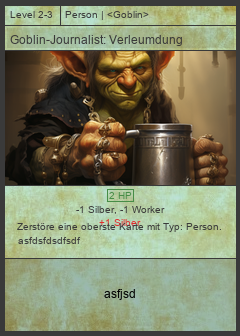
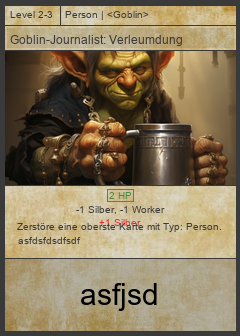
.

diff --git a/creature_fights/card_creation_scripts/card_creation.py b/creature_fights/card_creation_scripts/card_creation.py
@@ -1,0 +1,133 @@
+import json
+from PIL import Image, ImageDraw, ImageFont
+import os
+from image_utils import ImageText
+
+
+class Card:
+    def __init__(self, idx, data):
+        self.data = data
+
+        self.file_name = f"../cards/{idx}.png"
+
+        self.font_name = 'arial.ttf'
+        self.font_main_name = 'arial.ttf'
+        self.font_main = ImageFont.truetype(self.font_main_name, 12)
+        self.font = ImageFont.truetype(self.font_name, 10)
+        self.neutralColorA = (66, 66, 66)
+
+        #########################
+
+        image = Image.open(r"../../assets/c.jpg")
+
+        image = self.change_color(image)
+
+        self.draw_lines(image)
+
+        image = self.draw_main_stats(image)
+
+        image = self.add_image(image)
+
+        text_layer = self.get_text_layer()
+        image = Image.alpha_composite(image, text_layer)
+
+        #########################
+
+        image.save(self.file_name)
+        #os.system(self.file_name) # show file
+
+    def get_text_layer(self):
+        img2 = ImageText((240, 336), mode="RGBA", background=(0, 0, 0, 30), maximum_font_size=16)
+        img2.image.convert("PA")
+        img2.fill_text_box((120, 20), self.data["name"], box_width=180, box_height=50, font_filename=self.font_name)
+        overlay = img2.image
+        overlay.convert("RGBA")
+        return overlay
+
+    def add_text(self, image, text, centerX, centerY, width, height):
+        img2 = ImageText((240, 336), mode="RGBA", background=(0, 0, 0, 30), maximum_font_size=16)
+        img2.image.convert("PA")
+        img2.fill_text_box((centerX, centerY), text, box_width=width, box_height=height, font_filename=self.font_name)
+        overlay = img2.image
+        overlay.convert("RGBA")
+        image = Image.alpha_composite(image, overlay)
+        return image
+
+    def add_image(self, image):
+        im2 = Image.open('../../assets/goblin.png')
+        # im2.resize((4,4))
+        im2.thumbnail((232, 232), Image.Resampling.LANCZOS)
+        im2 = im2.crop((0, 49, im2.width - 1, im2.height - 49))
+
+        image = image.copy()
+        image.paste(im2, (5, 51))
+        return image
+
+    def draw_lines(self, image):
+        draw = ImageDraw.Draw(image, mode="RGBA")
+        # draw text
+        draw.text((10, 20), f"{self.data['cost_silver']} S", font=self.font, fill=self.neutralColorA)
+        if self.data['victory_points'] > 0:
+            draw.text((image.width-30, 20), f"{self.data['victory_points']} VP", font=self.font, fill=self.neutralColorA)
+
+        draw.line(xy=[(0, 0), (image.width, 0), (image.width, image.height), (0, image.height), (0, 0)],
+                  fill=self.neutralColorA, width=10)
+        #draw.line(xy=[(0, 25), (image.width, 25)], fill=self.neutralColorA, width=1)
+        draw.line(xy=[(0, 50), (image.width, 50)], fill=self.neutralColorA, width=1)
+        draw.line(xy=[(0, 185), (image.width, 185)], fill=self.neutralColorA, width=1)
+        draw.line(xy=[(0, 310), (image.width, 310)], fill=self.neutralColorA, width=5)
+
+    def draw_main_stats(self, image):
+        draw = ImageDraw.Draw(image, mode="RGBA")
+        draw.line(xy=[(61, 310), (61, 336)], fill=self.neutralColorA, width=6)
+        draw.line(xy=[(120, 310), (120, 336)], fill=self.neutralColorA, width=6)
+        draw.line(xy=[(179, 310), (179, 336)], fill=self.neutralColorA, width=6)
+
+        helligkeit = 200
+        draw.rectangle([(5, 313), (58, 331)], fill=(255,255,helligkeit))
+        draw.rectangle([(64, 313), (117, 331)], fill=(255, helligkeit, helligkeit))
+        draw.rectangle([(123, 313), (176, 331)], fill=(helligkeit, helligkeit, 255))
+        draw.rectangle([(182, 313), (235, 331)], fill=(helligkeit, 255, helligkeit))
+        # total_width = 240 - 5*5 = 215, 215/4= 53,75
+
+        image = self.add_text(image, f"{self.data['initiative']} INIT", 31, 323, 50, 20)
+        image = self.add_text(image, f"{self.data['attack']} ATK", 89, 323, 50, 20)
+        image = self.add_text(image, f"{self.data['defense']} DEF", 151, 323, 50, 20)
+        image = self.add_text(image, f"{self.data['health_points']} HP", 209, 323, 50, 20)
+
+        return image
+
+    def change_color(self, image):
+        image = image.convert("RGBA")
+        d = image.getdata()
+        new_image = []
+        for idx, item in enumerate(d):
+            r = item[0]
+            g = item[1]
+            b = item[2]
+            a = item[3]
+            total = r + g + b
+            change = round(total / 40)
+
+            tmp = idx % 240
+
+            if self.data["equipment_slot"] == True and self.data["spell_slot"] == True:
+                if tmp < 120:
+                    new_image.append((r - 5 * change, g + 2 * change, b + 3 * change, a))
+                else:
+                    new_image.append((r + 2 * change, g, b + 5 * change, a))
+            elif self.data["spell_slot"] == True:
+                new_image.append((r + 2 * change, g, b + 5 * change, a))
+            elif self.data["equipment_slot"] == True:
+                new_image.append((r - 5 * change, g + 2 * change, b + 3 * change, a))
+            else:
+                new_image.append((r, g, b, a))
+        image.putdata(new_image)
+        return image
+
+
+with open("../card_data/creatures", "r") as f:
+    content = f.read()
+    content = json.loads(content)
+    for idx, card_data in enumerate(content):
+        card = Card(idx, card_data)

diff --git a/creature_fights/generation_scripts/creature_generation.py b/creature_fights/generation_scripts/creature_generation.py
@@ -1,0 +1,100 @@
+
+import random
+import json
+
+AMOUNT = 50
+MIN_COST = 0
+MAX_COST = 20
+ITEM_POINTS_SCALE = 2
+
+class Creature:
+    def __init__(self):
+        self.data = {
+            "name": "Platzhalter des Ogertums",
+            "initiative": random.randrange(0, 10+1),  # mid from 0 to 10
+            "attack": 0,
+            "defense": 0,
+            "health_points": 1,
+            "cost_silver": 0,
+            "victory_points": 0,
+            "equipment_slot": False,
+            "spell_slot": False,
+        }
+
+        self.set_random_name()
+
+        self.data["cost_silver"] = random.randrange(MIN_COST, MAX_COST+1)
+
+        self.item_points = self.data["cost_silver"] * ITEM_POINTS_SCALE
+
+        if self.data["cost_silver"] >= 3:
+            per_cent = random.randrange(0, 100)
+            if per_cent < 10:
+                self.data["equipment_slot"] = True
+                self.data["spell_slot"] = True
+                self.item_points -= 3 * ITEM_POINTS_SCALE
+                print(f"bought both slots for 3 silver")
+            elif per_cent < 40:
+                self.data["spell_slot"] = True
+                self.item_points -= 2 * ITEM_POINTS_SCALE
+                print(f"bought one slot for 2 silver")
+            elif per_cent < 70:
+                self.data["equipment_slot"] = True
+                print(f"bought one slot for 2 silver")
+
+        while self.item_points > 0:
+            self.spend_random_points()
+
+    def spend_random_points(self):
+        per_cent = random.randrange(0, 100)
+        if per_cent < 10:
+            if self.item_points >= 2 * ITEM_POINTS_SCALE:
+                self.data["victory_points"] += 1
+                self.item_points -= 2 * ITEM_POINTS_SCALE
+                print(f"bought one VP for 2 silver")
+        elif per_cent < 30:
+            if self.item_points >= 1 * ITEM_POINTS_SCALE:
+                self.data["health_points"] += 1
+                self.item_points -= 1 * ITEM_POINTS_SCALE
+                print(f"bought one HP for 1 silver")
+        elif per_cent < 65:
+            current_cost = 0.5
+            if self.data["defense"] > 3:
+                current_cost = 1
+            if self.data["defense"] > 5:
+                current_cost = 2
+            if self.data["defense"] > 7:
+                current_cost = 4
+            if self.item_points >= current_cost * ITEM_POINTS_SCALE:
+                self.data["defense"] += 1
+                self.item_points -= current_cost * ITEM_POINTS_SCALE
+                print(f"bought one DEF for {current_cost} silver")
+        elif per_cent < 100:
+            current_cost = 0.5
+            if self.data["attack"] > 3:
+                current_cost = 1
+            if self.data["attack"] > 5:
+                current_cost = 2
+            if self.data["attack"] > 7:
+                current_cost = 4
+            if self.item_points >= current_cost * ITEM_POINTS_SCALE:
+                self.data["attack"] += 1
+                self.item_points -= current_cost * ITEM_POINTS_SCALE
+                print(f"bought one ATK for {current_cost} silver")
+
+    def set_random_name(self):
+        volk = ["Oger", "Elfen", "Zwerge", "Menschen", "Goblins", "Gar'daa", "Lichtwesen", "Dämonen"]
+        beruf = ["Schmied", "Kürchner", "Bastler", "Künstler", "Techniker", "Alchemist", "Händler", "Schurke", "Gefährte", "Reisender", "Diplomat", "Krieger"]
+        adjektive = [ "Abgesandter", "Gesegneter", "Einfacher", "Tollkühner", "Verlachter", "Heimtückischer", "Lustiger", "Trauriger", "Einsamer"]
+        name = "" + adjektive[random.randrange(0,len(adjektive))] + " " + beruf[random.randrange(0,len(beruf))] + " der " + volk[random.randrange(0,len(volk))]
+        self.data["name"] = name
+
+    def __str__(self):
+        return json.dumps(self.data)
+
+
+
+
+creatures = [Creature().data for i in range(AMOUNT)]
+with open("../card_data/creatures", "w") as f:
+    f.write(json.dumps(creatures))

diff --git a/scaled_generation.py b/scaled_generation.py
@@ -1,0 +1,80 @@
+from PIL import Image, ImageDraw, ImageFont
+import os
+
+from image_utils import ImageText
+
+
+def text_on_img(filename='01.png', text="Hello", size=12):
+    "Draw a text on an Image, saves it, show it"
+
+
+    neutralColorA = (66, 66, 66)
+
+    x_mid = 240 / 2
+
+    info_start = 5
+    info_end = 24
+    name_start = 25
+    name_end = 49
+    instant_start = 185
+    instant_end = 257
+    instant_mid = instant_start + (instant_end - instant_start) / 2
+    instant_third = instant_start + (instant_end - instant_start) / 3
+    instant_two_third = instant_start + 2 * (instant_end - instant_start) / 3
+    epoch_start = 258
+    epoch_end = 331
+    epoch_mid = epoch_start + (epoch_end - epoch_start) / 2
+    epoch_third = epoch_start + (epoch_end - epoch_start) / 3
+    epoch_two_third = epoch_start + 2 * (epoch_end - epoch_start) / 3
+
+
+    ORIGINAL_WIDTH = 240
+    ORIGINAL_HEIGHT = 336
+    UP_SCALE_FACTOR = 7
+
+    font = ImageFont.truetype("WernickeSchwabacher.ttf", 16*UP_SCALE_FACTOR)
+    font_main = ImageFont.truetype('arial.ttf', 12*UP_SCALE_FACTOR)
+    font = ImageFont.truetype('arial.ttf', 10*UP_SCALE_FACTOR)
+    font_name = 'arial.ttf'
+
+    # create image
+    # image = Image.new(mode = "RGB", size = (240,336), color = "white")
+    image = Image.open(r"assets/c.jpg")
+
+    image = Image.new("RGB", (ORIGINAL_WIDTH*UP_SCALE_FACTOR, ORIGINAL_HEIGHT*UP_SCALE_FACTOR), "white")
+
+    draw = ImageDraw.Draw(image)
+    # draw text
+    draw.text((10*UP_SCALE_FACTOR, 8*UP_SCALE_FACTOR), "Level 2-3", font=font, fill=neutralColorA)
+    draw.line(xy=[(60*UP_SCALE_FACTOR, 0), (60*UP_SCALE_FACTOR, 25*UP_SCALE_FACTOR)], fill=neutralColorA, width=1*UP_SCALE_FACTOR)
+    draw.text((65*UP_SCALE_FACTOR, 8*UP_SCALE_FACTOR), "Person | <Goblin>", font=font, fill=neutralColorA)
+    draw.text((10*UP_SCALE_FACTOR, 33*UP_SCALE_FACTOR), "Goblin-Journalist: Verleumdung", font=font_main, fill=neutralColorA)
+
+    draw.line(xy=[(0, 0), (image.width, 0), (image.width, image.height), (0, image.height), (0, 0)], fill=neutralColorA,
+              width=10*UP_SCALE_FACTOR)
+    draw.line(xy=[(0, 25*UP_SCALE_FACTOR), (image.width, 25*UP_SCALE_FACTOR)], fill=neutralColorA, width=1*UP_SCALE_FACTOR)
+    draw.line(xy=[(0, 50*UP_SCALE_FACTOR), (image.width, 50*UP_SCALE_FACTOR)], fill=neutralColorA, width=1*UP_SCALE_FACTOR)
+    draw.line(xy=[(0, 185*UP_SCALE_FACTOR), (image.width, 185*UP_SCALE_FACTOR)], fill=neutralColorA, width=1*UP_SCALE_FACTOR)
+    draw.line(xy=[(0, 258*UP_SCALE_FACTOR), (image.width, 258*UP_SCALE_FACTOR)], fill=neutralColorA, width=1*UP_SCALE_FACTOR)
+
+
+    # ADD NEW LAYER OF TEXT
+    img2 = ImageText((240*UP_SCALE_FACTOR, 336*UP_SCALE_FACTOR), mode="RGBA", background=(0, 0, 0, 30), maximum_font_size=30*UP_SCALE_FACTOR)
+    img2.image.convert("PA")
+    img2.fill_text_box((120*UP_SCALE_FACTOR-1, epoch_mid*UP_SCALE_FACTOR-1), "asf asf  sadf as sdf fh fdjdfg khgjlghj lll hjjj jjjjjjjjjjf gh  jff gjf f gjfhd fa dfs ad fds d f  fffffffffffs  asdjsd", box_width=200*UP_SCALE_FACTOR, box_height=20*UP_SCALE_FACTOR, font_filename=font_name)
+    img2.write_text((120*UP_SCALE_FACTOR, 100*UP_SCALE_FACTOR), 'test fsfa  fdsffffffffffffffffffffff as         sadf adfasd ill', font_filename=font_name,
+                   font_size='fill', max_width=200*UP_SCALE_FACTOR, max_height=20*UP_SCALE_FACTOR, color=neutralColorA)
+    overlay = img2.image
+    overlay.convert("RGBA")
+    image = image.convert("RGBA")
+    image = Image.alpha_composite(image, overlay)
+    image = image.convert("RGB")
+
+    image = image.resize((ORIGINAL_WIDTH, ORIGINAL_HEIGHT), resample=Image.Resampling.LANCZOS) # antialias?
+    print(image.size)
+    # save file
+    image.save(filename)
+    # show file
+    os.system(filename)
+
+text_on_img(text="Text", size=52)

diff --git a/generate.py b/generate.py
@@ -44,7 +44,8 @@ def text_on_img(filename='01.png', text="Hello", size=12):
 		total = r+g+b
 		change = round(total/40)
 
-		new_image.append((r-2*change,g+1*change,b+1*change,a))
+		#new_image.append((r-2*change,g+1*change,b+1*change,a))
+		new_image.append((r,g,b,a))
 	image.putdata(new_image)
 	draw = ImageDraw.Draw(image, mode="RGBA")
 	# draw text
@@ -103,9 +104,11 @@ def text_on_img(filename='01.png', text="Hello", size=12):
 
 
 	# ADD NEW LAYER OF TEXT
-	img2 = ImageText((240, 336), mode="RGBA", background=(0, 0, 0, 30))
+	img2 = ImageText((240, 336), mode="RGBA", background=(0, 0, 0, 30), maximum_font_size=30)
+	img2.image.convert("PA")
 	img2.fill_text_box((120, epoch_mid), "asfjsd", box_width=200, box_height=50, font_filename=font_name)
 	overlay = img2.image
+	overlay.convert("RGBA")
 	image = image.convert("RGBA")
 	image = Image.alpha_composite(image, overlay)
 	image = image.convert("RGB")
@@ -119,10 +122,8 @@ def text_on_img(filename='01.png', text="Hello", size=12):
 	image = image.copy()
 	image.paste(im2, (5, 51))
 
-
-
-
-
+	#image = image.resize((240, 336), resample=Image.LANCZOS)
+	#print(image.size)
 	# save file
 	image.save(filename)
 	# show file

diff --git a/card-constructor.py b/card-constructor.py
@@ -1,0 +1,21 @@
+card_data = {
+    "name": "Goblin-Journalist: Verleumdung",
+    "level_from": 2,
+    "level_to": 3,
+    "typen": ["Person"],
+    "subtypen": ["Goblin"],
+    "instant_resources": ["-1 Silber", "+1 Holz"],
+    "instant_effect": ["Blabliblub"]
+}
+
+
+
+# OOP
+
+# create different sub_images and then put them together
+# backgroundimage > shadow > cardimage > frame > text
+
+
+
+
+
